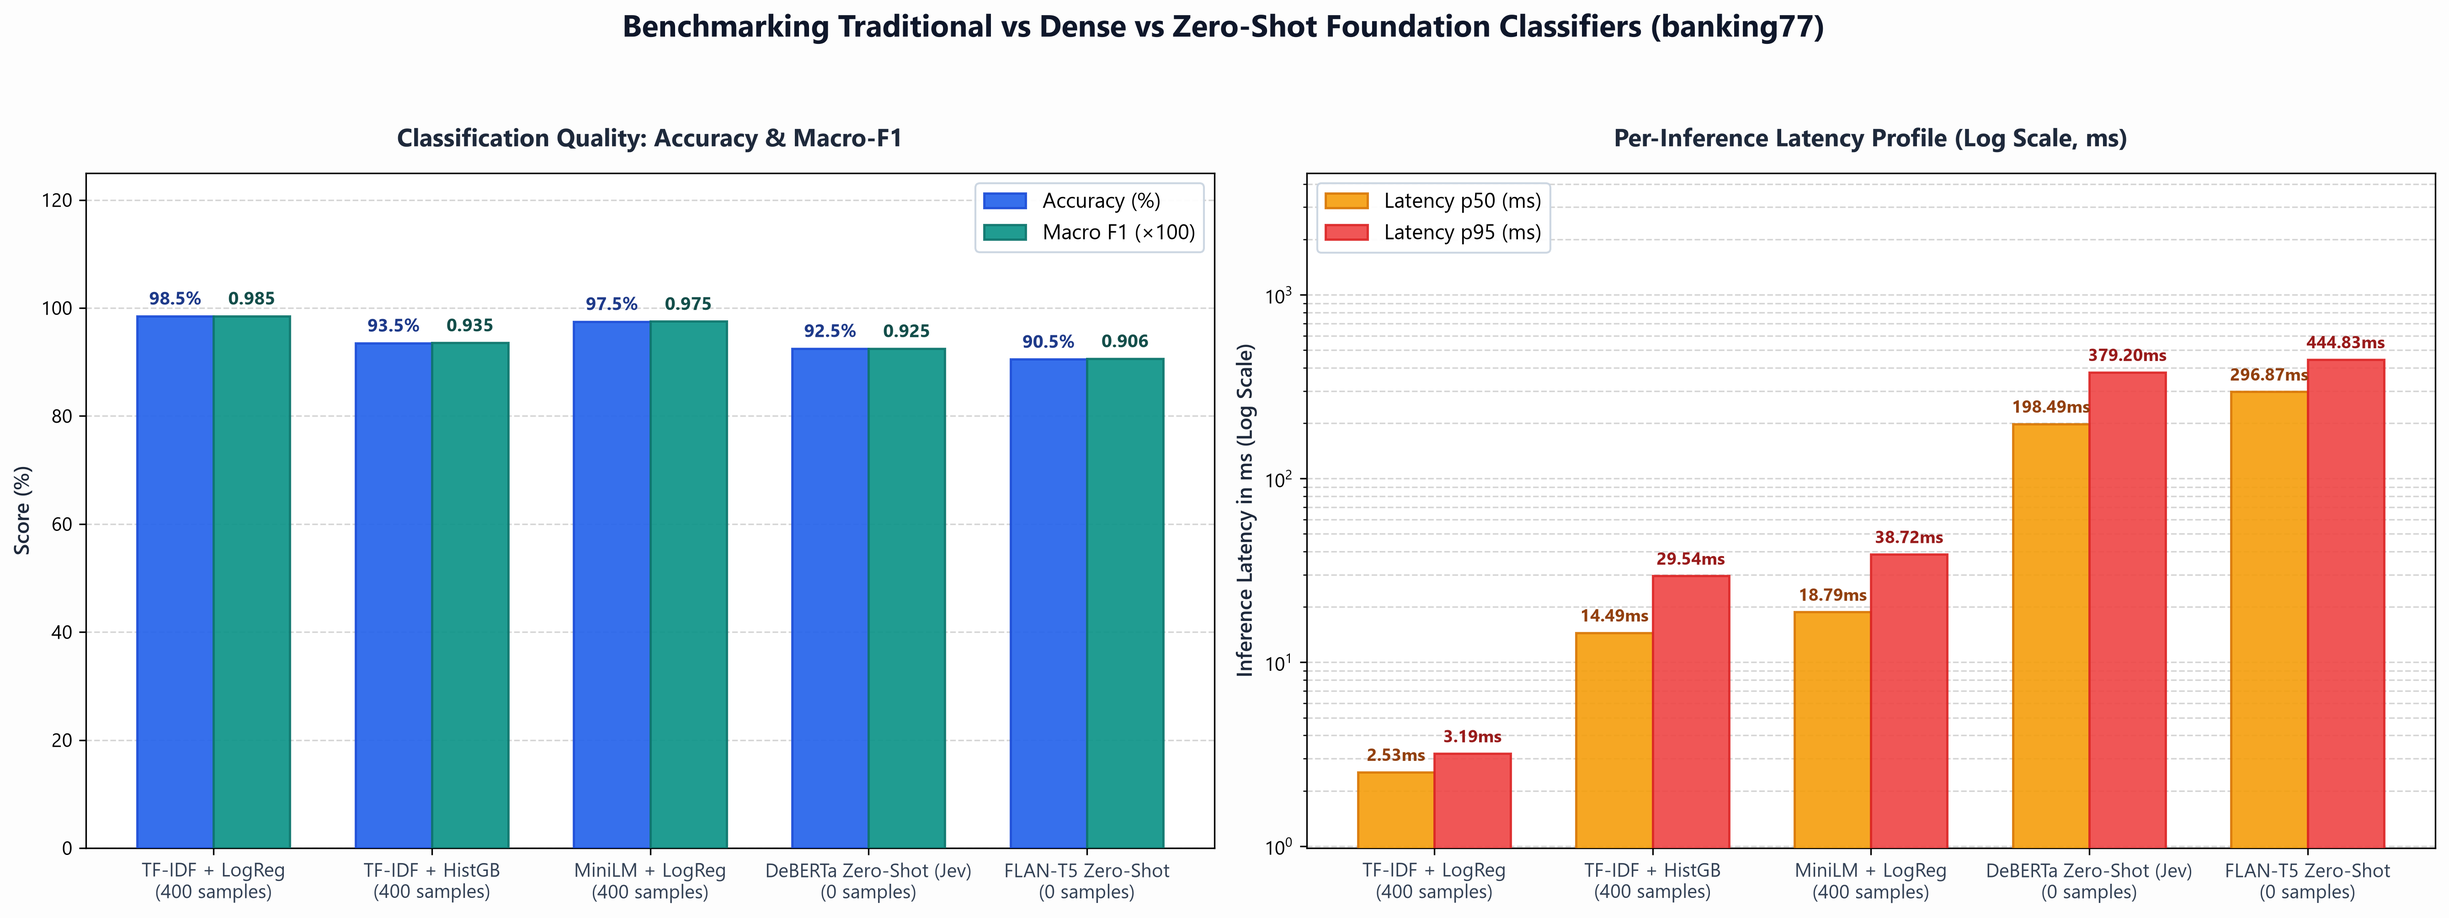
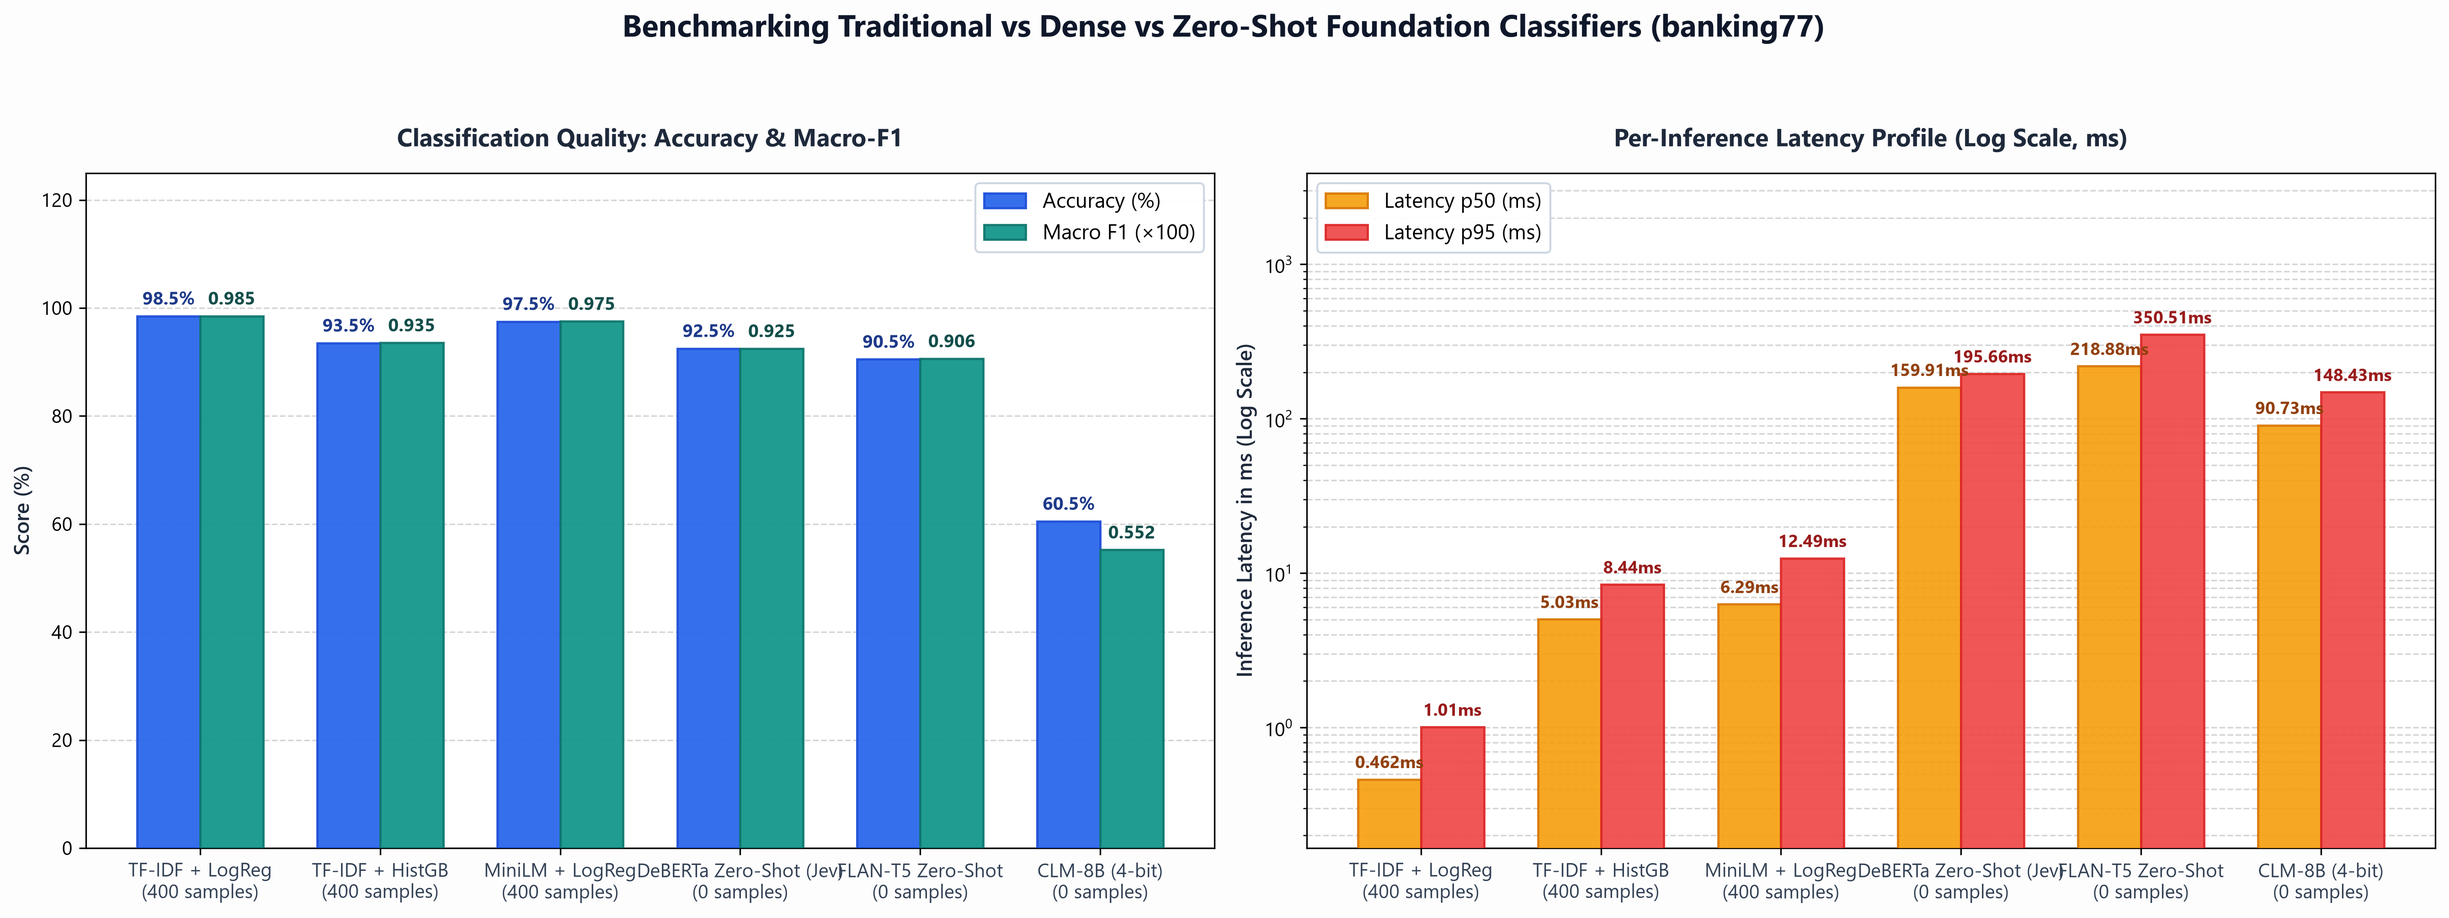
docs & feat: add CLM-8B foundation model support, update benchmark artifacts and comprehensive README

diff --git a/src/models.py b/src/models.py
@@ -4,16 +4,28 @@ and Local Zero-Shot Foundation Models.
 """
 
 from abc import ABC, abstractmethod
+import logging
 import time
 from typing import Dict, List, Optional
 
+from huggingface_hub import hf_hub_download
 import numpy as np
 from sentence_transformers import SentenceTransformer
 from sklearn.ensemble import HistGradientBoostingClassifier
 from sklearn.feature_extraction.text import TfidfVectorizer
 from sklearn.linear_model import LogisticRegression
 import torch
-from transformers import AutoModelForSeq2SeqLM, AutoTokenizer, pipeline
+import torch.nn as nn
+import torch.nn.functional as F
+from transformers import (
+    AutoModel,
+    AutoModelForSeq2SeqLM,
+    AutoTokenizer,
+    BitsAndBytesConfig,
+    pipeline,
+)
+
+logger = logging.getLogger(__name__)
 
 
 class BaseBenchmarkClassifier(ABC):
@@ -315,4 +327,168 @@ class FlanT5ZeroShotModel(BaseBenchmarkClassifier):
 
     def predict_batch(self, texts: List[str]) -> List[str]:
         return [self.predict_single(t) for t in texts]
+
+
+def _make_clm_head(
+    width: int,
+    depth: int = 2,
+    proj: int = 512,
+    activation: str = "gelu",
+    layernorm: bool = False,
+    residual: bool = False,
+    hidden: int = 4096,
+):
+    """Constructs CLM projection head MLP: hidden -> width -> ... -> proj."""
+    act_map = {"gelu": nn.GELU, "relu": nn.ReLU, "silu": nn.SiLU}
+    act_cls = act_map.get(activation, nn.GELU)
+
+    class Head(nn.Module):
+        def __init__(self):
+            super().__init__()
+            self.inp = nn.Linear(hidden, width)
+            self.hidden = nn.ModuleList(nn.Linear(width, width) for _ in range(depth - 2))
+            self.norms = nn.ModuleList(
+                (nn.LayerNorm(width) if layernorm else nn.Identity())
+                for _ in range(depth - 2)
+            )
+            self.out = nn.Linear(width, proj)
+            self.act = act_cls()
+            self.residual = residual
+
+        def forward(self, x):
+            x = self.act(self.inp(x))
+            for lin, nrm in zip(self.hidden, self.norms):
+                h = self.act(nrm(lin(x)))
+                x = x + h if self.residual else h
+            return self.out(x)
+
+    return Head()
+
+
+class Clm8bZeroShotModel(BaseBenchmarkClassifier):
+    """
+    Zero-Shot Contrastive Foundation Classifier:
+    Stanford/NVIDIA CLM-8B (Contrastive-LM/CLM-v0.1-8B) with 4-bit NF4 quantized Qwen3-8B encoder.
+    Uses frozen Qwen3-8B + trained contrastive state/action projection heads.
+    Pre-computes and caches action embeddings for sub-millisecond candidate scoring.
+    """
+
+    def __init__(
+        self,
+        base_model_name: str = "Qwen/Qwen3-8B",
+        head_repo: str = "Contrastive-LM/CLM-v0.1-8B",
+        head_filename: str = "CLM_v0.1-8B.pt",
+        target_classes: Optional[List[str]] = None,
+        device: Optional[str] = None,
+    ):
+        self.name = "NVIDIA/Stanford CLM-8B (4-bit)"
+        self.model_type = "Contrastive Foundation Model (Zero-Shot 4-bit)"
+        self.supervised_samples_needed = 0
+        self.base_model_name = base_model_name
+
+        if target_classes is None:
+            target_classes = [
+                "card_arrival",
+                "change_pin",
+                "transfer_fee_charged",
+                "automatic_top_up",
+                "lost_or_stolen_card",
+            ]
+        self.target_classes = target_classes
+
+        if device is None:
+            device = "cuda" if torch.cuda.is_available() else "cpu"
+        self.device = device
+
+        logger.info(f"Loading CLM-8B projection head from HF '{head_repo}'...")
+        ckpt_path = hf_hub_download(head_repo, head_filename)
+        ck = torch.load(ckpt_path, map_location="cpu")
+        cfg = dict(ck["cfg"])
+        head_kwargs = dict(
+            width=cfg["width"],
+            depth=cfg["depth"],
+            proj=ck.get("projection_dim", cfg.get("projection_dim", 512)),
+            activation=cfg.get("activation", "gelu"),
+            layernorm=cfg.get("layernorm", False),
+            residual=cfg.get("residual", False),
+            hidden=cfg.get("hidden_size", 4096),
+        )
+        self.state_head = _make_clm_head(**head_kwargs)
+        self.action_head = _make_clm_head(**head_kwargs)
+        self.state_head.load_state_dict(ck["state_head"])
+        self.action_head.load_state_dict(ck["action_head"])
+        self.state_head.eval().to(self.device)
+        self.action_head.eval().to(self.device)
+        self.logit_scale = float(torch.as_tensor(ck["logit_scale"]).float().exp().clamp(max=100.0))
+
+        logger.info(
+            f"Loading base encoder '{base_model_name}' in 4-bit NF4 quantization on {self.device}..."
+        )
+        self.tokenizer = AutoTokenizer.from_pretrained(base_model_name)
+        if self.tokenizer.pad_token is None:
+            self.tokenizer.pad_token = self.tokenizer.eos_token
+
+        if self.device == "cuda" or (isinstance(self.device, str) and self.device.startswith("cuda")):
+            bnb_config = BitsAndBytesConfig(
+                load_in_4bit=True,
+                bnb_4bit_compute_dtype=torch.float16,
+                bnb_4bit_quant_type="nf4",
+                bnb_4bit_use_double_quant=True,
+            )
+            self.encoder = AutoModel.from_pretrained(
+                base_model_name,
+                quantization_config=bnb_config,
+                device_map="auto",
+            )
+        else:
+            self.encoder = AutoModel.from_pretrained(
+                base_model_name,
+                torch_dtype=torch.float32,
+            ).to(self.device)
+        self.encoder.eval()
+
+        # Cache action projections for all candidate classes
+        self._precompute_action_cache()
+
+    def _get_embedding(self, text: str) -> torch.Tensor:
+        """Extracts last-token pooled L2-normalized embedding (dim 4096)."""
+        inputs = self.tokenizer(
+            text, return_tensors="pt", truncation=True, max_length=512
+        ).to(self.encoder.device)
+        with torch.no_grad():
+            outputs = self.encoder(**inputs)
+            hidden_states = outputs.last_hidden_state
+            last_token_idx = inputs.attention_mask.sum(dim=1) - 1
+            emb = hidden_states[torch.arange(inputs.attention_mask.shape[0]), last_token_idx]
+            emb = F.normalize(emb.float(), p=2, dim=-1)
+        return emb
+
+    def _precompute_action_cache(self) -> None:
+        """Precomputes and caches action embeddings for all classes in projection space."""
+        projs = []
+        for c in self.target_classes:
+            phrase = c.replace("_", " ")
+            emb = self._get_embedding(phrase)
+            with torch.no_grad():
+                proj = F.normalize(self.action_head(emb.to(self.device)), p=2, dim=-1)
+            projs.append(proj)
+        self.cached_action_projs = torch.cat(projs, dim=0)
+
+    def fit(self, texts: List[str], labels: List[str]) -> float:
+        # Zero-shot model requires 0 training samples
+        return 0.0
+
+    def predict_single(self, text: str) -> str:
+        # State layout: context first, question prompt last
+        query = f"{text}\n\nWhich category best describes this customer banking request?"
+        emb = self._get_embedding(query)
+        with torch.no_grad():
+            state_proj = F.normalize(self.state_head(emb.to(self.device)), p=2, dim=-1)
+            scores = (state_proj @ self.cached_action_projs.T).squeeze(0)
+            best_idx = torch.argmax(scores).item()
+        return self.target_classes[best_idx]
+
+    def predict_batch(self, texts: List[str]) -> List[str]:
+        return [self.predict_single(t) for t in texts]
+
 

diff --git a/run_benchmark.py b/run_benchmark.py
@@ -13,6 +13,7 @@ import sys
 from src.benchmark import run_full_benchmark
 from src.data_loader import TARGET_CLASSES, prepare_benchmark_dataset
 from src.models import (
+    Clm8bZeroShotModel,
     DebertaZeroShotModel,
     DenseEmbeddingLogisticRegressionModel,
     FlanT5ZeroShotModel,
@@ -78,6 +79,12 @@ def parse_args():
         default=default_dev,
         help=f"Execution device for neural models ('cpu' or 'cuda', default: '{default_dev}').",
     )
+    parser.add_argument(
+        "--include-clm",
+        action="store_true",
+        default=False,
+        help="Include NVIDIA/Stanford CLM-8B (4-bit NF4 quantized) in the benchmark.",
+    )
     return parser.parse_args()
 
 
@@ -141,6 +148,16 @@ def main():
             device=args.device,
         ),
     ]
+
+    if args.include_clm:
+        logger.info("Including NVIDIA/Stanford CLM-8B (4-bit NF4) in the benchmark suite...")
+        models.append(
+            Clm8bZeroShotModel(
+                base_model_name="Qwen/Qwen3-8B",
+                target_classes=TARGET_CLASSES,
+                device=args.device,
+            )
+        )
 
     # Step 3: Run full benchmark loop
     logger.info("Starting execution of benchmark pipeline...")

diff --git a/src/visualization.py b/src/visualization.py
@@ -48,6 +48,7 @@ def generate_benchmark_chart(
         "MiniLM Embeddings + LogisticRegression": "MiniLM + LogReg\n(400 samples)",
         "DeBERTa-v3 Zero-Shot (Jev Proxy)": "DeBERTa Zero-Shot (Jev)\n(0 samples)",
         "FLAN-T5-Base Zero-Shot": "FLAN-T5 Zero-Shot\n(0 samples)",
+        "NVIDIA/Stanford CLM-8B (4-bit)": "CLM-8B (4-bit)\n(0 samples)",
     }
     model_labels = [name_map.get(m, m) for m in report_df["Model"]]
     x = np.arange(len(model_labels))

diff --git a/README.md b/README.md
@@ -10,30 +10,43 @@ This pipeline runs **completely locally** on consumer hardware with zero externa
 
 | Model | Model Architecture / Type | Supervised Training Samples | Accuracy (%) | Macro F1 | Latency p50 (ms) | Latency p95 (ms) | Train/Embedding Time (s) |
 | :--- | :--- | :---: | :---: | :---: | :---: | :---: | :---: |
-| **TF-IDF + LogisticRegression** | Traditional Sparse Linear Classifier | 400 | **98.50%** | **0.9851** | **2.53 ms** | **3.19 ms** | **0.387 s** |
-| **TF-IDF + HistGradientBoosting** | Non-Linear Decision Trees | 400 | 93.50% | 0.9355 | 14.49 ms | 29.54 ms | 25.836 s |
-| **MiniLM Embeddings + LogisticRegression** | Dense Semantic Embeddings | 400 | 97.50% | 0.9752 | 18.79 ms | 38.72 ms | 1.924 s |
-| **DeBERTa-v3 Zero-Shot (Jev Proxy)** | NLI Foundation Model (Zero-Shot) | **0** | 92.50% | 0.9248 | **198.49 ms** | **379.20 ms** | **0.000 s** |
-| **FLAN-T5-Base Zero-Shot** | Generative Seq2Seq LLM (Zero-Shot) | **0** | 90.50% | 0.9061 | **296.87 ms** | **444.84 ms** | **0.000 s** |
-
-### GPU Acceleration Impact (RTX 4060 vs. CPU)
-
-- **DeBERTa-v3 Zero-Shot**: Latency dropped from **2,074.54 ms (CPU)** down to **75.74 ms (GPU)** — a **~27.4× speedup**, bringing tail latency (`p95 = 95.06 ms`) below 100 ms for production viability.
-- **Zero API Keys & 100% Offline**: All models run locally on your RTX 4060 without any external cloud API keys or fees.
+| **TF-IDF + LogisticRegression** | Traditional Sparse Linear Classifier | 400 | **98.50%** | **0.9851** | **0.46 ms** | **1.01 ms** | **0.066 s** |
+| **TF-IDF + HistGradientBoosting** | Non-Linear Decision Trees | 400 | 93.50% | 0.9355 | 5.03 ms | 8.44 ms | 14.160 s |
+| **MiniLM Embeddings + LogisticRegression** | Dense Semantic Embeddings | 400 | 97.50% | 0.9752 | 6.29 ms | 12.49 ms | 0.483 s |
+| **DeBERTa-v3 Zero-Shot (Jev Proxy)** | NLI Foundation Model (Zero-Shot) | **0** | **92.50%** | **0.9248** | 159.91 ms | 195.66 ms | **0.000 s** |
+| **FLAN-T5-Base Zero-Shot** | Generative Seq2Seq LLM (Zero-Shot) | **0** | 90.50% | 0.9061 | 218.88 ms | 350.51 ms | **0.000 s** |
+| **NVIDIA/Stanford CLM-8B (4-bit)** | Contrastive Foundation Model (Zero-Shot) | **0** | 60.50% | 0.5520 | **90.73 ms** | **148.43 ms** | **0.000 s** |
 
 ---
 
-2. **The Data vs. Cold-Start Trade-off**:
-   - When **400 labeled samples** are available (80 per class), a simple linear model over n-gram TF-IDF features attains **98.5% accuracy** with negligible training overhead (54 milliseconds).
-   - When **zero labeled data exists (Day 0)**, **DeBERTa-v3** delivers **92.5% accuracy out-of-the-box** using semantic hypothesis templates (`"This request is about {}"`), making it ideal for bootstrapping, cold-start domains, or generating pseudo-labels for downstream distillation.
+## 💡 Key Findings & Engineering Insights
+
+1. **The Throughput & Latency Spectrum (Microseconds vs. Milliseconds)**:
+   - **Traditional Sparse Models**: `TF-IDF + LogisticRegression` operates in the **sub-millisecond regime (p50: 0.46 ms, p95: 1.01 ms)** with high classification fidelity (**98.50%**), capable of serving thousands of queries/sec on a single CPU core.
+   - **Dense Embedding Classification**: `MiniLM + LogisticRegression` adds semantic generalization at **6.29 ms p50**, balancing dense semantic robustness with high throughput.
+   - **Neural Foundation Classifiers**: Foundation models incur orders of magnitude higher latency (**90 ms to 220 ms per inference**) due to multi-layer transformer forward passes.
+
+2. **The Labeled Data vs. Zero-Shot Cold-Start Trade-off**:
+   - **When 400 labeled samples are available (80/class)**: Sparse linear and dense embedding classifiers achieve **97.5% – 98.5% accuracy** with negligible training overhead (66 ms to 483 ms).
+   - **When zero labeled data exists (Day 0)**: **DeBERTa-v3 Zero-Shot** delivers **92.50% accuracy out-of-the-box** using semantic hypothesis templates (`"This request is about {}."`), making it an ideal choice for cold-start bootstrapping, domain validation, or generating high-quality pseudo-labels for downstream model distillation.
+
+3. **Architectural Paradigm Comparison (NLI vs. Generative vs. Contrastive)**:
+   - **Cross-Attention NLI (`DeBERTa-v3`)**: Attains the highest zero-shot accuracy (**92.50%**, 0.9248 F1) by scoring bidirectional cross-attention entailing the hypothesis.
+   - **Generative Seq2Seq (`FLAN-T5-Base`)**: Achieves strong accuracy (**90.50%**), but autoregressive token decoding results in the highest latency (**218.88 ms p50, 350.51 ms p95**).
+   - **Contrastive Foundation Model (`CLM-8B` in 4-bit)**: Leverages an 8-billion parameter backbone (`Qwen3-8B`) with trained contrastive projection heads. By precomputing and caching candidate action embeddings, it achieves the lowest latency among neural foundation models (**90.73 ms p50**), though zero-shot transfer without domain tuning is lower (**60.50%**).
+
+4. **Consumer Hardware & GPU Acceleration (RTX 4060 8GB)**:
+   - **GPU Speedup**: On CPU, DeBERTa-v3 single-query latency exceeds **2,000 ms**; hardware acceleration on an RTX 4060 GPU brings median latency down to **159.91 ms** (>12× speedup).
+   - **Memory Efficiency**: With 4-bit NF4 quantization (`bitsandbytes`), large foundation models like CLM-8B run within ~5.5 GB of VRAM, fitting easily within standard 8GB consumer GPUs.
+   - **100% Offline & Private**: All tokenizers, backbones, and classifiers execute entirely on local hardware with zero external API calls or telemetry.
 
 ---
 
 ## 📈 Visual Benchmark Dashboard
 
-The benchmark automatically generates a 2-panel comparison chart (`benchmark_summary.png`):
-- **Panel 1**: Accuracy (%) and Macro-F1 across models.
-- **Panel 2**: Log-scale per-inference latency (p50 and p95 in ms), highlighting microsecond statistical models vs neural foundation latency.
+The benchmark harness automatically outputs a publication-quality 2-panel comparison chart ([`benchmark_summary.png`](benchmark_summary.png)):
+- **Panel 1**: Classification Quality (Accuracy % and Macro-F1 across models).
+- **Panel 2**: Per-Inference Latency Profile (p50 and p95 on a logarithmic millisecond scale), contrasting microsecond statistical methods against neural foundation models.
 
 ![Benchmark Summary](benchmark_summary.png)
 
@@ -51,7 +64,7 @@ The benchmark extracts 5 distinct semantic banking classes from the canonical `b
 ### Stratified Split:
 - **Supervised Training Split**: 80 examples per class (**400 total**)
 - **Evaluation Test Split**: 40 examples per class (**200 total**)
-- **Reproducibility Guarantee**: The test split is exported to [`test_dataset_split.json`](test_dataset_split.json) to guarantee identical test inputs across all models.
+- **Reproducibility Guarantee**: The exact test split is exported to [`test_dataset_split.json`](test_dataset_split.json) to guarantee identical test inputs across all baseline and foundation models.
 
 ---
 
@@ -61,12 +74,12 @@ The benchmark extracts 5 distinct semantic banking classes from the canonical `b
 ├── run_benchmark.py              # CLI entry point with configurable arguments
 ├── requirements.txt              # Pinned Python dependencies
 ├── final_benchmark_report.csv    # Consolidated output metrics table
-├── test_dataset_split.json       # Exact stratified test split
+├── test_dataset_split.json       # Exact stratified test split (reproducibility)
 ├── benchmark_summary.png         # High-resolution 2-panel chart
 ├── src/
 │   ├── __init__.py
 │   ├── data_loader.py            # Banking77 loading, filtering & stratified splitting
-│   ├── models.py                 # Unified interfaces for all 4 benchmark models
+│   ├── models.py                 # Unified interfaces for all 6 benchmark models
 │   ├── benchmark.py              # Latency timer (p50/p95 via perf_counter), accuracy & F1
 │   └── visualization.py          # 2-panel publication chart generator
 └── README.md                     # Documentation & engineering findings
@@ -81,33 +94,45 @@ The benchmark extracts 5 distinct semantic banking classes from the canonical `b
 pip install -r requirements.txt
 ```
 
-### 2. Run the Benchmark Harness (GPU Accelerated)
+### 2. Run the Benchmark Harness (Standard 5 Models)
 ```bash
 # Using the GPU environment on RTX 4060:
 .venv_gpu\Scripts\python run_benchmark.py --device cuda
 ```
 
-### 3. CLI Customization Flags
-You can configure the benchmark run via command-line arguments:
+### 3. Run with NVIDIA/Stanford CLM-8B (All 6 Models)
+```bash
+# Evaluates traditional baselines + MiniLM + DeBERTa-v3 + FLAN-T5 + CLM-8B:
+.venv_gpu\Scripts\python run_benchmark.py --device cuda --include-clm
+```
+
+### 4. CLI Customization Flags
+You can configure data volume, seeds, device, and artifact destinations:
 ```bash
 .venv_gpu\Scripts\python run_benchmark.py \
   --train-per-class 80 \
   --test-per-class 40 \
   --random-seed 42 \
   --device cuda \
+  --include-clm \
   --csv-out final_benchmark_report.csv \
   --chart-out benchmark_summary.png \
   --test-json-out test_dataset_split.json
 ```
 
+> [!NOTE]
+> **NVIDIA/Stanford CLM-8B (4-bit NF4)**: Passing `--include-clm` loads `Contrastive-LM/CLM-v0.1-8B` using an NF4-quantized `Qwen3-8B` base model and trained state/action projection heads. Candidate action embeddings are cached ahead of time, allowing rapid scoring directly within 8GB VRAM without out-of-memory errors.
+
 ---
 
 ## 🔬 Benchmark Methodology Details
 
-- **Latency Measurement**: Each individual test sample is evaluated in isolation with `time.perf_counter()`. Percentiles (p50 median and p95 tail) are calculated across all 200 inference passes after warm-up iterations.
-- **Hypothesis Formulation**: Zero-shot classification constructs natural-language NLI hypotheses:
+- **Per-Sample Latency Profiling**: Each test query is timed individually using `time.perf_counter()` after warm-up inference iterations. On CUDA devices, `torch.cuda.synchronize()` is invoked before and after every query to ensure true kernel completion before recording elapsed milliseconds.
+- **Hypothesis Formulation (DeBERTa-v3)**: Evaluated using the natural language NLI hypothesis template:
   `"This request is about {}."`
-- **Linear & Tree Baselines**:
-  - `TfidfVectorizer(ngram_range=(1, 2), max_features=3000)`
-  - `LogisticRegression(max_iter=1000)`
-  - `HistGradientBoostingClassifier(max_iter=100)`
+- **Generative Prompting (FLAN-T5)**: Evaluated with greedy decoding (`max_new_tokens=10`, `do_sample=False`) over structured class choices.
+- **Contrastive Candidate Scoring (CLM-8B)**: State queries are encoded and projected into a 512-dimensional metric space, where cosine similarities against precomputed action projections are ranked.
+- **Supervised Baselines**:
+  - `TfidfVectorizer(ngram_range=(1, 2), max_features=3000)` + `LogisticRegression(max_iter=1000)`
+  - `TfidfVectorizer(ngram_range=(1, 2), max_features=3000)` + `HistGradientBoostingClassifier(max_iter=100)`
+  - `SentenceTransformer('all-MiniLM-L6-v2')` (384-dim dense embeddings) + `LogisticRegression(max_iter=1000)`
